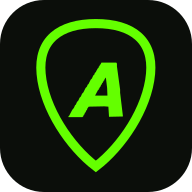
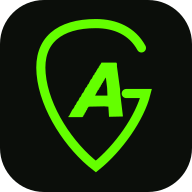
Uskladi sve ikonice sa novim GA znakom

diff --git a/lib/brand.ts b/lib/brand.ts
@@ -1,6 +1,7 @@
 // The capital A is shared by gitarA and Akordi.
 export const SITE_NAME = "GitarAkordi"
 export const BRAND_A_PATH = "M38.7 3L56.19 3L56.93 4.12L56.93 7.47L60.65 34.63L60.65 38.35L64 66.26L47.63 66.63L46.88 54.72L42.05 54.35L23.81 54.72L22.33 56.58L21.58 58.81L20.84 59.19L20.09 61.42L19.35 61.79L18.6 64.02L17.86 64.4L17.49 65.88L16.37 67L0 67L0 65.88L0.74 65.51L4.47 58.44L6.33 56.21L7.81 52.86L8.56 52.49L10.05 49.14L11.53 47.65L13.02 44.3L14.51 42.81L16 39.47L17.49 37.98L20.09 32.77L21.58 31.28L22.7 28.67L23.44 28.3L26.05 23.09L27.53 21.6L29.02 18.26L30.51 16.77L30.88 15.28L32.37 13.79L32.74 12.3L33.49 11.93L33.86 10.44L35.35 8.95L35.72 7.47L36.47 7.09L36.84 5.6L37.58 5.23ZM43.91 20.49L42.42 22.35L42.05 23.84L41.3 24.21L41.3 24.95L40.56 25.33L40.19 26.81L39.44 27.19L39.07 28.67L38.33 29.05L37.58 31.28L36.84 31.65L36.47 33.14L35.72 33.51L35.35 35L34.6 35.37L31.26 41.7L45.77 41.7L45.4 32.77Z"
-export const BRAND_PICK_PATH = "M42 5C18 5 4 16 6 38c2 23 19 48 36 61 17-13 34-38 36-61C80 16 66 5 42 5Z"
+// Open G follows the pick outline; its short crossbar sits beside the unchanged A.
+export const BRAND_PICK_PATH = "M72 21C66 10 55 5 42 5C18 5 4 16 6 38c2 23 19 48 36 61C57 87 71 67 75 51H62"
 export const BRAND_LABEL = "GitarAkordi.com"
 export const BRAND_ACCENT = "#64ff00"

diff --git a/app/manifest.ts b/app/manifest.ts
@@ -17,9 +17,9 @@ export default function manifest(): MetadataRoute.Manifest {
     prefer_related_applications: false,
     categories: ["music", "education"],
     icons: [
-      { src: "/pwa/icon-192.png", sizes: "192x192", type: "image/png", purpose: "any" },
-      { src: "/pwa/icon-512.png", sizes: "512x512", type: "image/png", purpose: "any" },
-      { src: "/pwa/icon-maskable-512.png", sizes: "512x512", type: "image/png", purpose: "maskable" },
+      { src: "/pwa/icon-192.png?v=ga-1", sizes: "192x192", type: "image/png", purpose: "any" },
+      { src: "/pwa/icon-512.png?v=ga-1", sizes: "512x512", type: "image/png", purpose: "any" },
+      { src: "/pwa/icon-maskable-512.png?v=ga-1", sizes: "512x512", type: "image/png", purpose: "maskable" },
     ],
   }
 }

diff --git a/docs/branding.md b/docs/branding.md
@@ -10,6 +10,8 @@ Logo je jedino u `HeaderSearch`, levo od pretrage, na svakoj stranici. Na račun
 
 Ikonice koriste trzalicu sa kosim A i istom zelenom bojom: `app/icon.svg`, `app/favicon.ico` (16/32/48/64 px), `app/apple-icon.png` (180 px), kao i `public/brand/gitarakordi-symbol.svg` za zaseban znak. Cela adresa se ne sabija u favicon, gde bi postala nečitljiva.
 
+Od 17. novembra 2026. koristi se vlasnikova izabrana prva GA varijanta: otvoreni obod trzalice oblikuje G, dok koso A i boja #64ff00 ostaju isti. Usklađene su i PWA ikonice 192/512 px i neprovidna maskable verzija sa istim manjim znakom unutar bezbedne oblasti. `node scripts/generate-brand-icons.cjs` ponovo generiše sve ove ikonice iz `lib/brand.ts`. PWA manifest ima verziju `?v=ga-1` za nove ikonice; prethodne putanje bez verzije i dalje rade. Veliki logo sa gitarom, PDF i slika za deljenje ostaju isti. Već instalirane aplikacije i keširane ikonice pregledača mogu dobiti novi znak tek pri narednom ažuriranju; objava ne menja odmah postojeće prečice na svim uređajima.
+
 Sve PDF putanje koriste isti `lib/songbook/pdf.ts`: pojedinačne pesme, lična pesmarica i liste za sviranje. Logo se vektorski ugrađuje jednom po dokumentu i ponovo koristi na naslovnici pesmarice (260 pt) i u podnožju svake strane (96 pt). Za beli papir slova i gitara su tamni, a akcenat zelen; nema crnog pravougaonika. Creator metadata glasi GitarAkordi.com. Mesto za brojeve stranica i postojeća oblast za tekst/akorde ostaju očuvani. Ranije preuzeti PDF-ovi se ne menjaju: potrebno je ponovo preuzimanje posle objave.
 
 Provera izmene: 112 relevantnih testova, ESLint za izmenjene TypeScript komponente i izolovani Next produkcioni build sa probnim podacima i lokalno keširanim Poppins fontovima. Vizuelno su pregledani PDF pojedinačne pesme, naslovnica i sadržaj pesmarice, kao i nastavci duže pesme. Pregled zaglavlja obuhvata širine 320, 390, 600, 767, 768, 820, 1024 i 1366 px u obe teme, na početnoj i kontakt strani. Produkciona baza se ne koristi u QA kopiji. Nema izmene baze, automatskog commita, push-a ili deploy-a.
